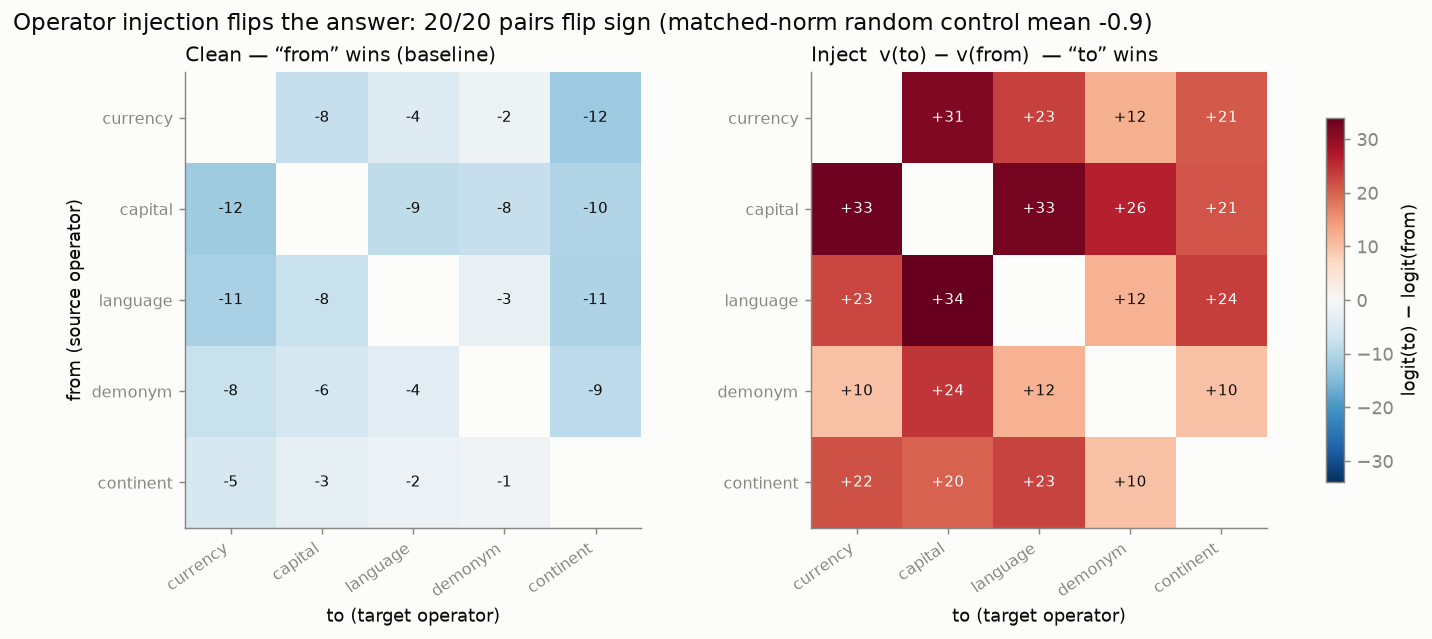
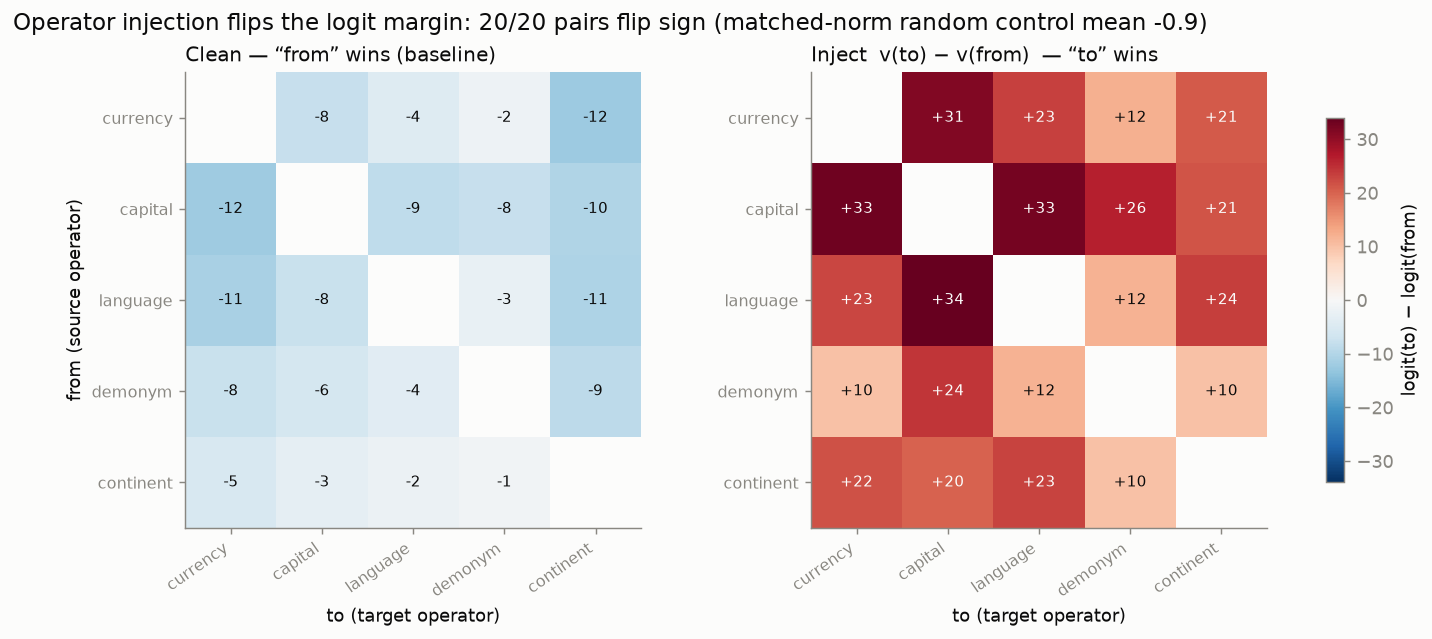
Deployed 4479001 with MkDocs version: 1.6.1

Changed region(s): [[0.2151, 0.0, 0.8603, 0.0595]]

diff --git a/es/paper/index.html b/es/paper/index.html
@@ -892,7 +892,7 @@ a <strong>manipulable operator direction</strong> in the residual stream, largel
 two-way analysis of variance factorizes the mid-network state as <code>H ≈ μ + operand + operator +
 interaction</code>, ~90% additive, with the operator component dominant at the query position. The direction
 is <strong>causal</strong>: adding <code>v(op_B) − v(op_A)</code> flips the target-vs-source logit margin for <strong>all 20 ordered
-relation pairs in all three models</strong> (a single mid-workspace layer suffices), while matched-norm random
+relation pairs in all three models</strong> (at 1.7B a single mid-workspace layer suffices), while matched-norm random
 controls do nothing — and a query-position activation patch reroutes the greedy answer itself at the
 model's competence ceiling. It <strong>generalizes</strong>:
 directions built on half the operands flip the held-out half; directions built in one wording of a
@@ -1056,12 +1056,12 @@ intervened) grows from 7.9 nats (α = 0.5) to 21 nats (α = 12) — 18.4 at the 
 edit substantially distorts off-task text. We report this as an honest cost of the band-wide,
 all-position intervention rather than tuning it away; targeted (single-position) variants are the
 natural mitigation and are left to future work.</p>
-<p><strong>Minimal intervention, and margins vs. generation.</strong> The band-wide injection is not the minimal
+<p><strong>Minimal intervention, and margins vs. generation (1.7B).</strong> The band-wide injection is not the minimal
 effective intervention: restricting the same directions to a <strong>single mid-workspace layer</strong> still flips
-<strong>20/20 margins</strong> (contrast +6.8 [+3.0, +8.9]) at 4.5× lower off-task cost (KL 4.6 vs. 20.6 nats/token);
+<strong>20/20 margins</strong> (contrast +6.8 [+3.0, +8.9]) at 4.4× lower off-task cost (KL 4.6 vs. 20.6 nats/token here; the dose sweep's 18.4 at α = 4 reflects a different pair/prompt sample);
 the middle half-band gives +12.8 [+7.9, +16.3] at 10.9 nats. Greedy decoding sharpens the picture: the
 additive injection — at any width — flips the <em>relative</em> margin but does not make the model emit the
-target answer within three greedy tokens (0% exact match; consistent with its off-task distortion),
+target answer within three greedy tokens (≤0.5% exact match, 1/224 items at the wider bands, 0/224 at a single layer; consistent with its off-task distortion),
 whereas <strong>replacing the query-position residual with a real donor activation</strong> (same operand, target
 relation — classic activation patching: one position, no averaged direction) makes the model <em>say</em> the
 target answer at <strong>51%</strong>, essentially its own clean-prompt accuracy of 53%. The averaged difference

diff --git a/paper/index.html b/paper/index.html
@@ -892,7 +892,7 @@ a <strong>manipulable operator direction</strong> in the residual stream, largel
 two-way analysis of variance factorizes the mid-network state as <code>H ≈ μ + operand + operator +
 interaction</code>, ~90% additive, with the operator component dominant at the query position. The direction
 is <strong>causal</strong>: adding <code>v(op_B) − v(op_A)</code> flips the target-vs-source logit margin for <strong>all 20 ordered
-relation pairs in all three models</strong> (a single mid-workspace layer suffices), while matched-norm random
+relation pairs in all three models</strong> (at 1.7B a single mid-workspace layer suffices), while matched-norm random
 controls do nothing — and a query-position activation patch reroutes the greedy answer itself at the
 model's competence ceiling. It <strong>generalizes</strong>:
 directions built on half the operands flip the held-out half; directions built in one wording of a
@@ -1056,12 +1056,12 @@ intervened) grows from 7.9 nats (α = 0.5) to 21 nats (α = 12) — 18.4 at the 
 edit substantially distorts off-task text. We report this as an honest cost of the band-wide,
 all-position intervention rather than tuning it away; targeted (single-position) variants are the
 natural mitigation and are left to future work.</p>
-<p><strong>Minimal intervention, and margins vs. generation.</strong> The band-wide injection is not the minimal
+<p><strong>Minimal intervention, and margins vs. generation (1.7B).</strong> The band-wide injection is not the minimal
 effective intervention: restricting the same directions to a <strong>single mid-workspace layer</strong> still flips
-<strong>20/20 margins</strong> (contrast +6.8 [+3.0, +8.9]) at 4.5× lower off-task cost (KL 4.6 vs. 20.6 nats/token);
+<strong>20/20 margins</strong> (contrast +6.8 [+3.0, +8.9]) at 4.4× lower off-task cost (KL 4.6 vs. 20.6 nats/token here; the dose sweep's 18.4 at α = 4 reflects a different pair/prompt sample);
 the middle half-band gives +12.8 [+7.9, +16.3] at 10.9 nats. Greedy decoding sharpens the picture: the
 additive injection — at any width — flips the <em>relative</em> margin but does not make the model emit the
-target answer within three greedy tokens (0% exact match; consistent with its off-task distortion),
+target answer within three greedy tokens (≤0.5% exact match, 1/224 items at the wider bands, 0/224 at a single layer; consistent with its off-task distortion),
 whereas <strong>replacing the query-position residual with a real donor activation</strong> (same operand, target
 relation — classic activation patching: one position, no averaged direction) makes the model <em>say</em> the
 target answer at <strong>51%</strong>, essentially its own clean-prompt accuracy of 53%. The averaged difference